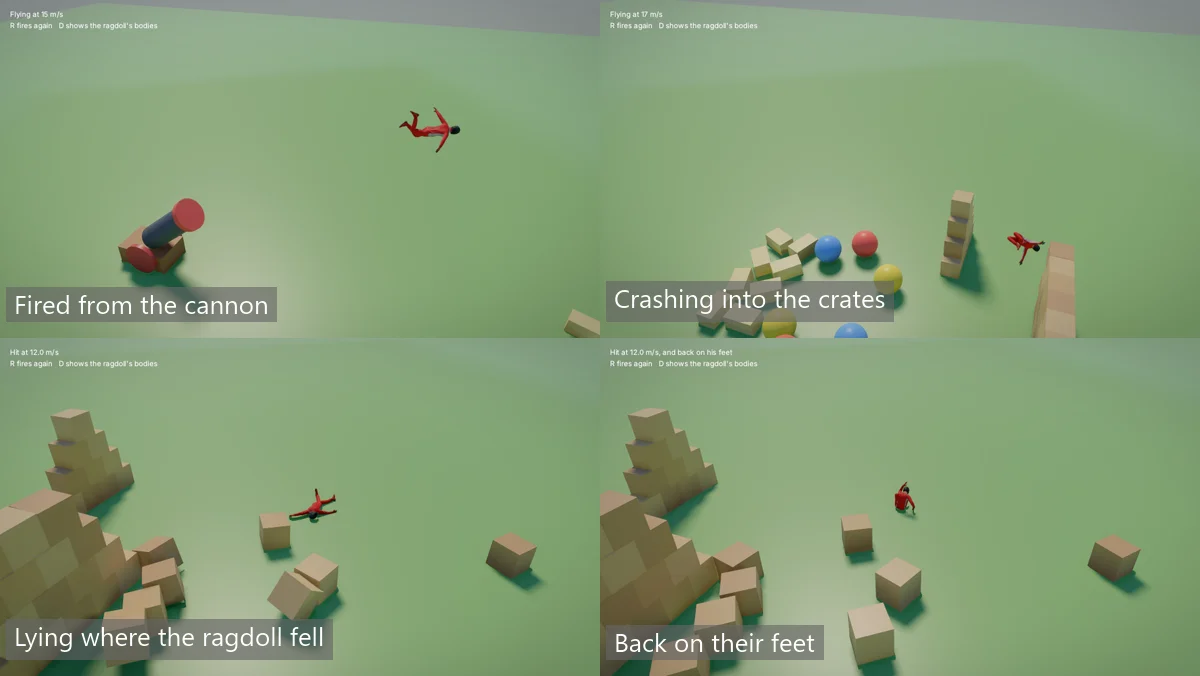
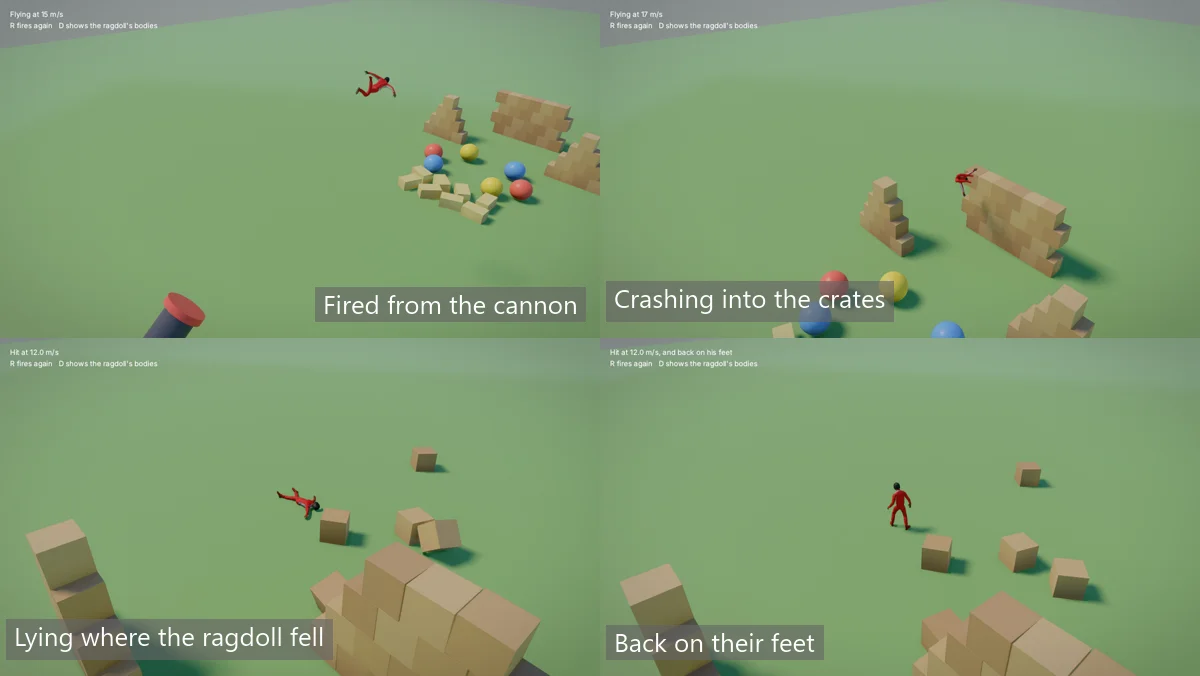
fix: follow the cannonball from behind and above, so the camera looks over the wall

diff --git a/examples/Cannonball/CannonballGame.cs b/examples/Cannonball/CannonballGame.cs
@@ -69,8 +69,8 @@ public sealed class CannonballGame(World world, Content content, Physics physics
 
     private Vector3 JointAt(string joint) => (world.Get<Animated>(Stuntman).Value.Joint(joint) * world.Get<Transform>(Stuntman).Matrix).Translation;
 
-    /// <summary>Follows the stuntman from the side, a little ahead and above, so the whole flight crosses the screen and the wall never hides where they land.</summary>
-    public FollowCamera Camera { get; } = new() { Offset = new Vector3(-11f, 7f, 4f), Lag = 0.35f, FieldOfView = 0.8f, WideAs = 16f / 9f };
+    /// <summary>Follows the stuntman from behind, to the side and above, so the whole flight crosses the screen and the camera looks over the wall at where they land.</summary>
+    public FollowCamera Camera { get; } = new() { Offset = new Vector3(-9f, 7f, -8f), Lag = 0.35f, FieldOfView = 0.8f, WideAs = 16f / 9f };
 
     /// <summary>For <c>--script bodies</c>: shows the ragdoll's bodies, so a screenshot can show them.</summary>
     public IReadOnlyDictionary<string, InputScript> Scripts => new Dictionary<string, InputScript>
